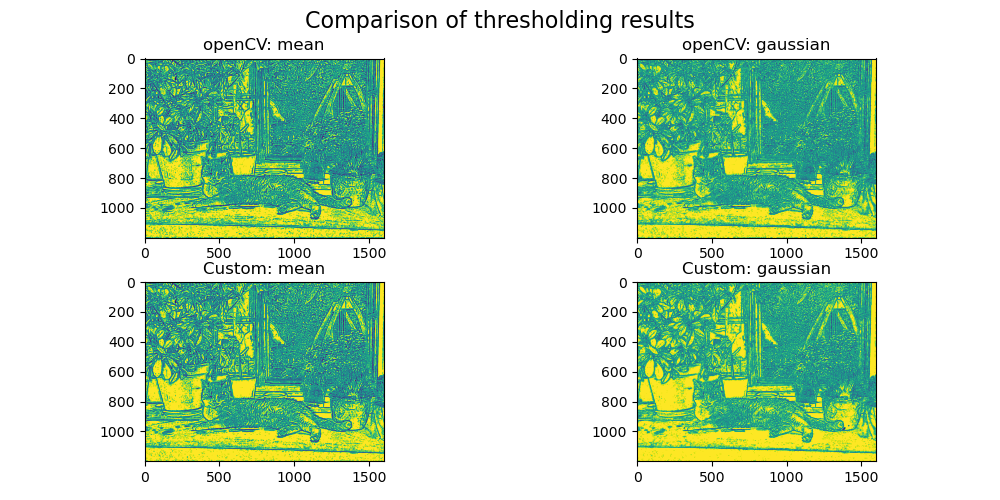
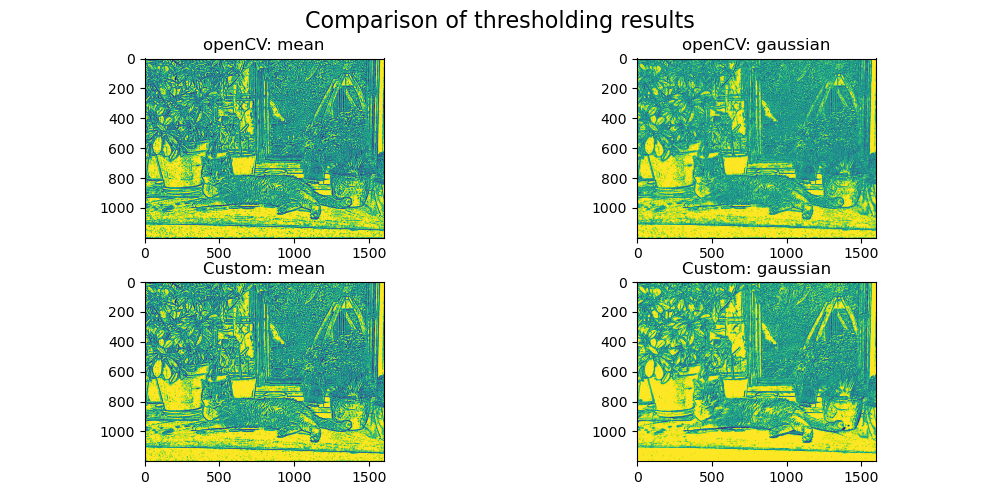
Implemented custom gaussian thresholding

Changed region(s): [[0.62, 0.57, 0.868, 0.9]]

diff --git a/src/adaptiveThreshold.py b/src/adaptiveThreshold.py
@@ -1,6 +1,7 @@
 import os
 import cv2
 import numpy as np
+from tqdm import tqdm
 import matplotlib.pyplot as plt
 
 
@@ -15,21 +16,25 @@ class AdaptiveThreshold:
                  image_path: str,
                  blockSize: int = 11,
                  C: int = 2,
-                 max_value: int = 255) -> None:
+                 max_value: int = 255,
+                 sigma: float = 2) -> None:
 
         if blockSize % 2 != 1 and blockSize <= 0:
             raise ValueError("block_size must be an odd positive integer")
+        elif sigma < 0:
+            raise ValueError("sigma must be an positive")
 
         self.image = cv2.imread(image_path, cv2.IMREAD_GRAYSCALE)
         self.blockSize = blockSize
         self.C = C
         self.max_value = max_value
+        self.sigma = sigma
 
     def adaptive_thresholdMean(self) -> np.ndarray:
         height, width = self.image.shape
         new_image = np.zeros(shape=self.image.shape, dtype=np.uint8)
 
-        for i in range(height):
+        for i in tqdm(range(height), total=height, desc="Average Thresholding"):
             for j in range(width):
 
                 left = np.maximum(0, i - self.blockSize // 2)
@@ -45,12 +50,37 @@ class AdaptiveThreshold:
 
         return new_image
 
-    def adaptive_thresholdGaussian(self) -> np.ndarray:
-        threshold_matrix = cv2.GaussianBlur(src=self.image, ksize=(self.blockSize, self.blockSize), sigmaX=0)
-        threshold_matrix = threshold_matrix - self.C
+
+    def adaptive_thresholdGaussian(self):
+        # create kernel
+        kernel = np.zeros((self.blockSize, self.blockSize))
+        center = self.blockSize // 2
+
+        for i in range(self.blockSize):
+            for j in range(self.blockSize):
+                x = i - center - 1
+                y = j - center - 1
+                kernel[i, j] = np.exp(-(x ** 2 + y ** 2) / (2 * self.sigma ** 2))
+
+        # to blur the image, we have to average the kernel by the sum of the kernel elements
+        kernel = kernel / np.sum(kernel)
+
+        # Create the image
+        blurred_image = np.zeros_like(self.image)
+        padded_image = np.pad(self.image, ((center, center), (center, center)))
+
+        # convolution with image
+        height, width = self.image.shape
+        for i in tqdm(range(center, height + center), total=height, desc="Gaussian Thresholding"):
+            for j in range(center, width + center):
+                patch = padded_image[i - center: i + center + 1, j - center: j + center + 1]
+                # R_i_j = H_i_j * F_i_j
+                blurred_image[i - center, j - center] = np.sum(patch * kernel)
+
+        blurred_image = blurred_image - self.C
 
         new_image = np.zeros(shape=self.image.shape, dtype=np.uint8)
-        new_image[self.image >= threshold_matrix] = self.max_value
+        new_image[self.image >= blurred_image] = self.max_value
 
         return new_image
 
